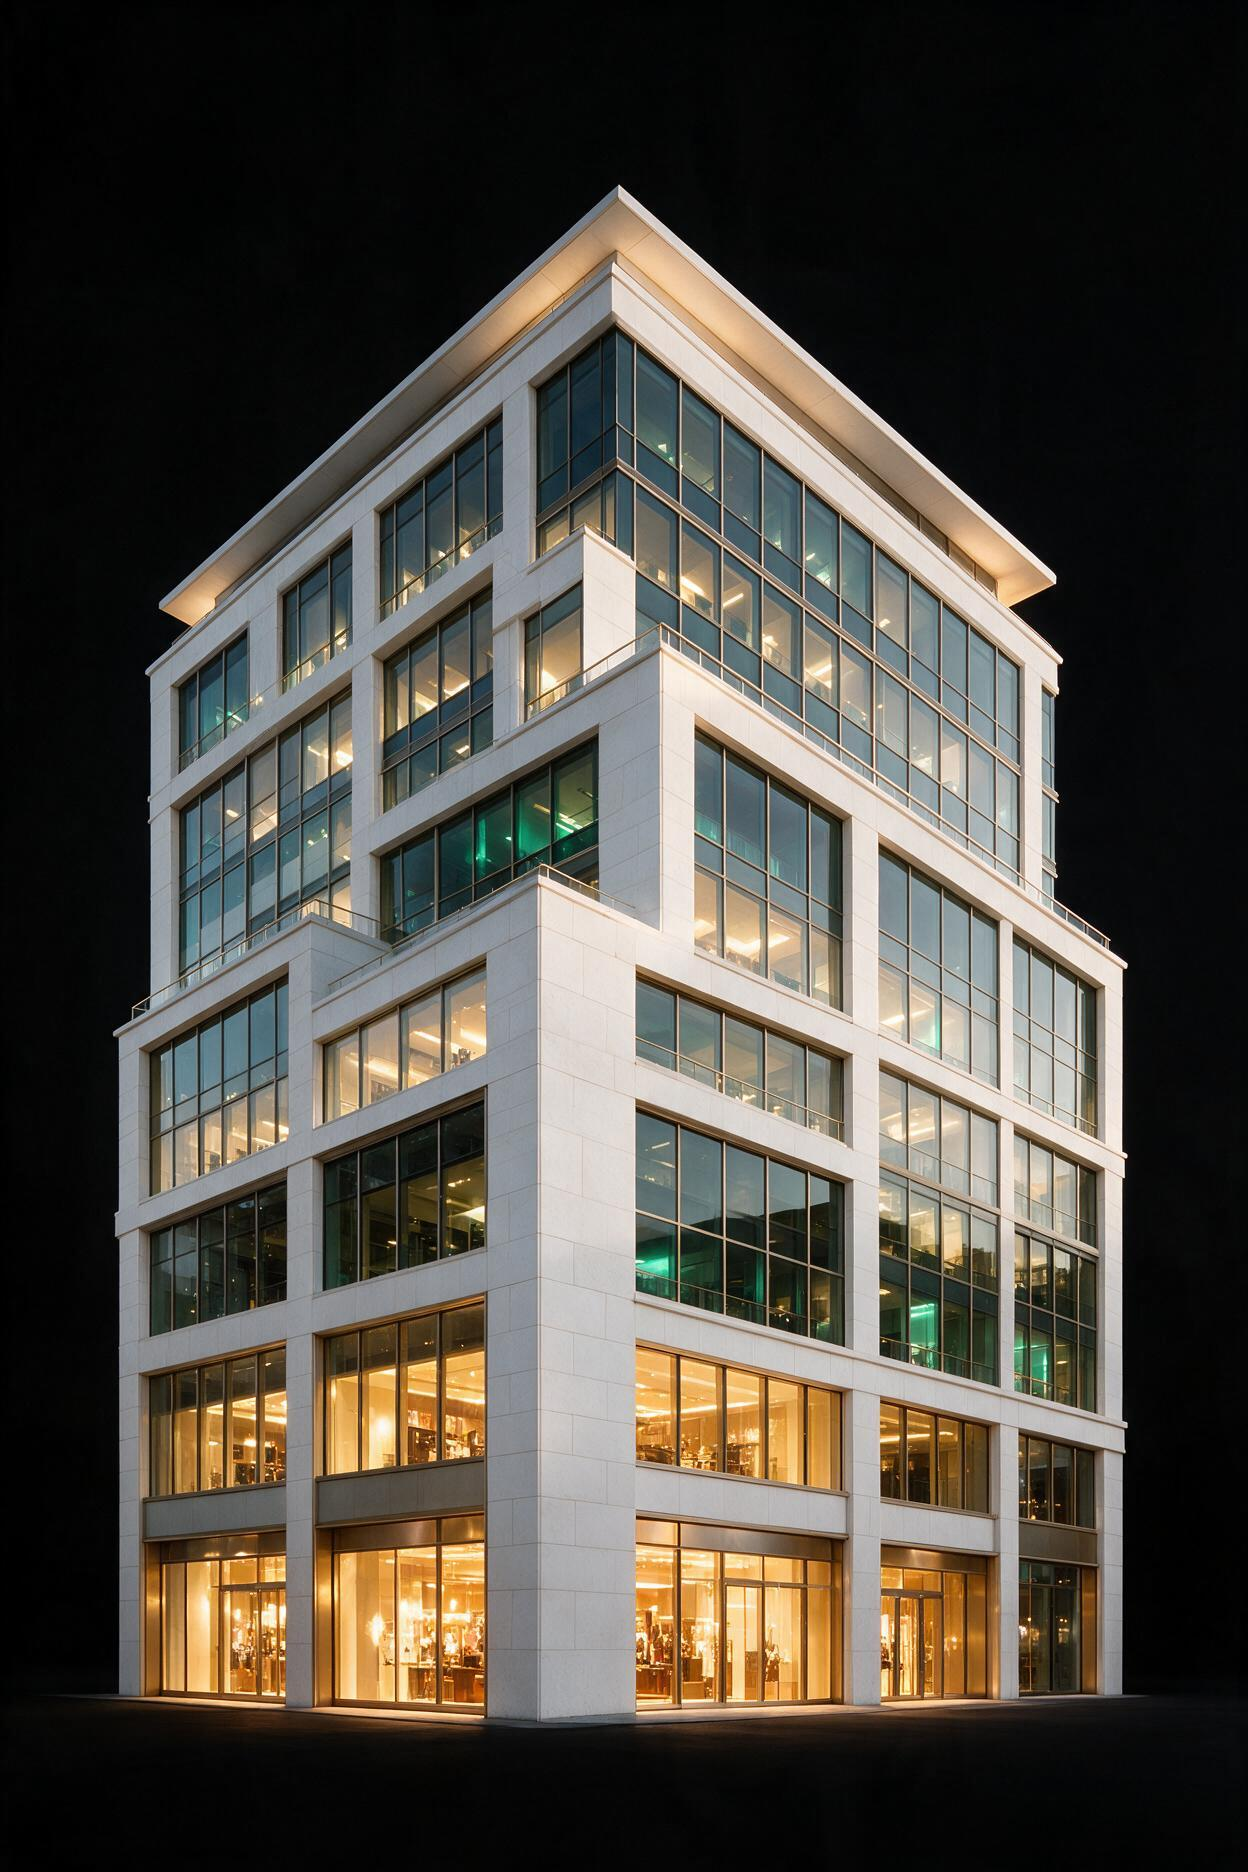
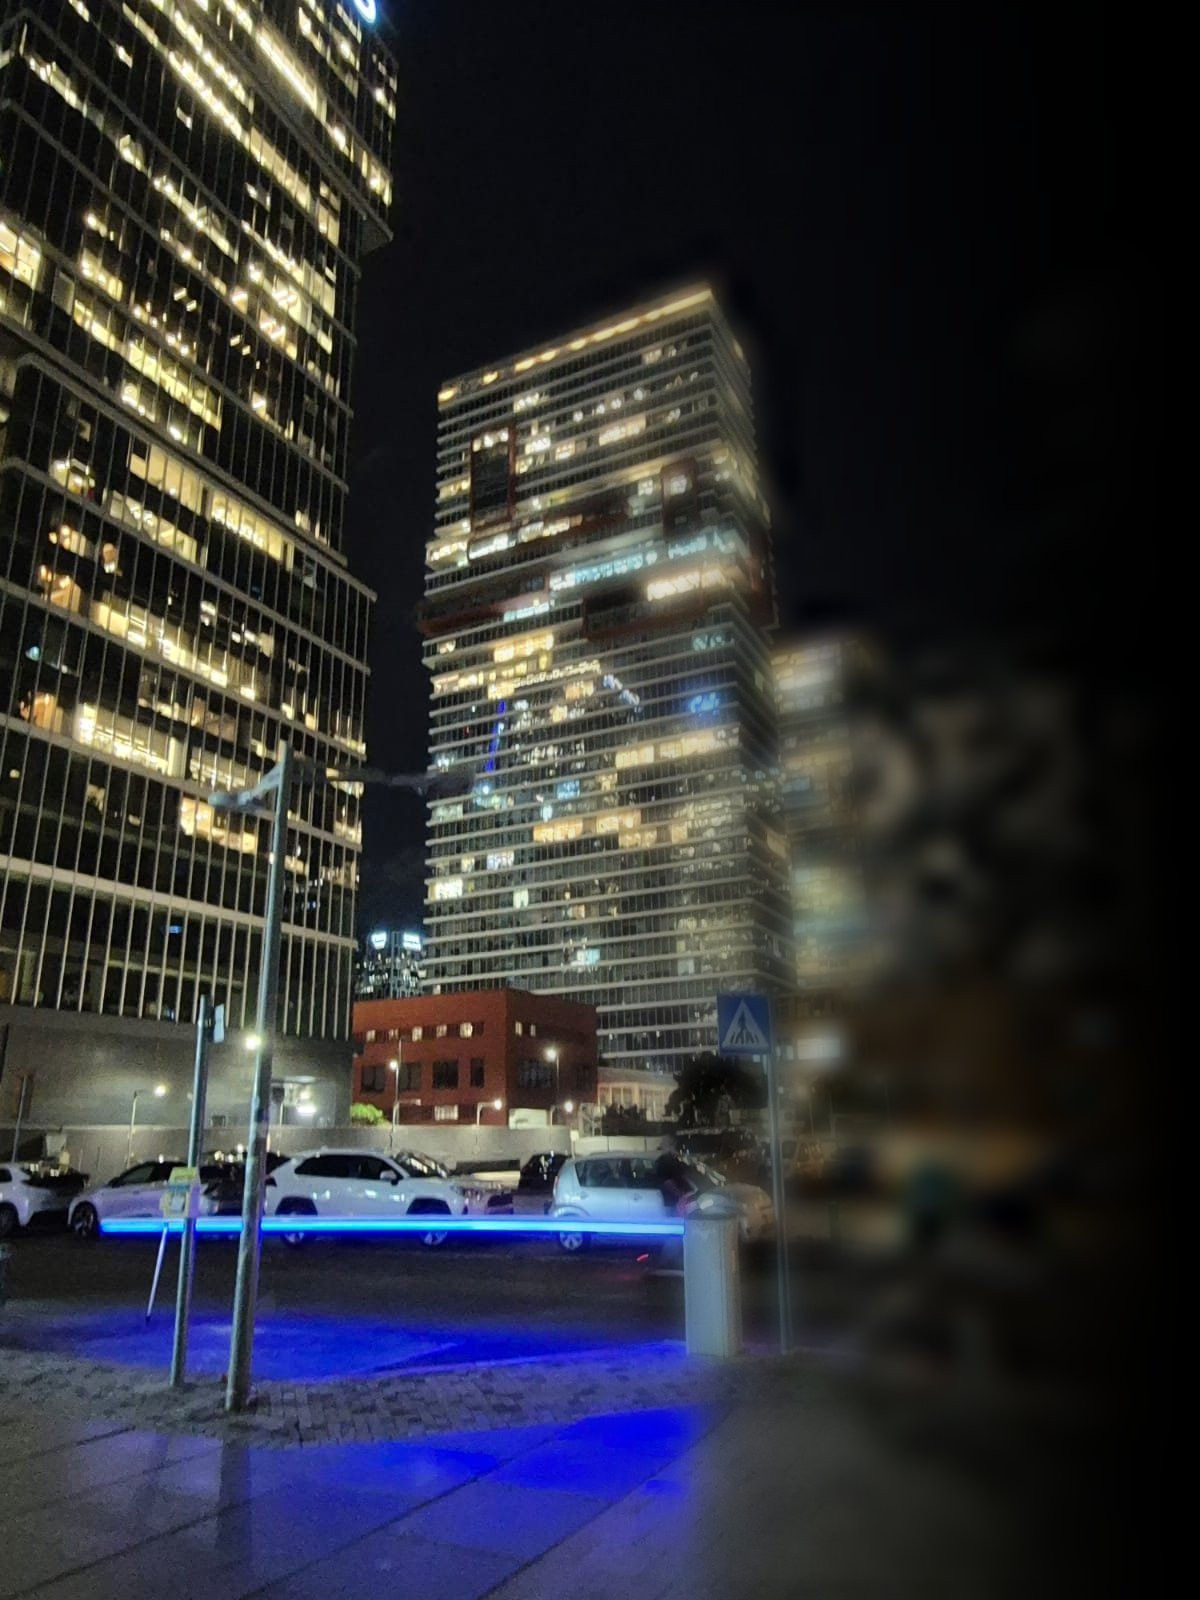
החלפת תמונת ה-Hero בתצלום אמיתי של דורון
תצלום לילי אמיתי שדורון צילם (hbg.jpeg) במקום התמונה שנוצרה ב-AI.
עובד: הפוך אופקית (מראה) לפי הבקשה, ואז מיזוג הדרגתי של הצד הימני
(בתמונה ההפוכה) לטשטוש ואז לשחור מלא, כך שהתמונה נמסה לתוך רקע
הענן השחור של האזור באופן חלק — במקום להסתמך רק על שכבת ה-gradient
הקיימת של Tailwind.

עודכן: hero.jpg (התמונה המעובדת), alt text בכל הקבצים (כבר לא
מתאר "בניין עם חנויות" אלא את התצלום האמיתי), ומידות ה-width/height
ב-Hero.tsx כדי לשקף את יחס הממדים האמיתי (1200x1600).

התמונה המקורית (ללא עיבוד) נשמרה ב-site/assets-original/ וגם
כ-hbg.jpeg בתיקיית הפרויקט.

diff --git a/site/preview/edit.html b/site/preview/edit.html
@@ -126,7 +126,7 @@ tailwind.config = {
   <svg data-spiro="31" viewBox="0 0 400 400" fill="none" class="pointer-events-none absolute right-[-25%] -top-[45%] h-[1400px] w-[1400px] text-brand/[0.07]"></svg>
 
   <div class="relative h-[380px] w-full sm:h-[460px] lg:absolute lg:inset-y-0 lg:left-0 lg:h-full lg:w-[49%]">
-    <img src="../lovable/public/images/hero.jpg" alt="בניין מסחרי מודרני עם חנויות בקומת הקרקע" class="h-full w-full object-cover object-center" />
+    <img src="../lovable/public/images/hero.jpg" alt="נוף לילי של מגדלי משרדים במרכז העסקים" class="h-full w-full object-cover object-center" />
     <div class="absolute inset-0 bg-gradient-to-r from-ink-13/40 via-transparent to-ink-13"></div>
     <div class="absolute inset-x-0 bottom-0 h-40 bg-gradient-to-t from-ink-13 to-transparent lg:hidden"></div>
 

diff --git a/site/preview/index.html b/site/preview/index.html
@@ -125,7 +125,7 @@ tailwind.config = {
   <svg data-spiro="31" viewBox="0 0 400 400" fill="none" class="pointer-events-none absolute right-[-25%] -top-[45%] h-[1400px] w-[1400px] text-brand/[0.07]"></svg>
 
   <div class="relative h-[380px] w-full sm:h-[460px] lg:absolute lg:inset-y-0 lg:left-0 lg:h-full lg:w-[49%]">
-    <img src="../lovable/public/images/hero.jpg" alt="בניין מסחרי מודרני עם חנויות בקומת הקרקע" class="h-full w-full object-cover object-center" />
+    <img src="../lovable/public/images/hero.jpg" alt="נוף לילי של מגדלי משרדים במרכז העסקים" class="h-full w-full object-cover object-center" />
     <div class="absolute inset-0 bg-gradient-to-r from-ink-13/40 via-transparent to-ink-13"></div>
     <div class="absolute inset-x-0 bottom-0 h-40 bg-gradient-to-t from-ink-13 to-transparent lg:hidden"></div>
 

diff --git a/site/lovable/src/components/site/Hero.tsx b/site/lovable/src/components/site/Hero.tsx
@@ -48,11 +48,11 @@ export function Hero() {
       <div className="relative h-[380px] w-full sm:h-[460px] lg:absolute lg:inset-y-0 lg:left-0 lg:h-full lg:w-[49%]">
         <img
           src="/images/hero.jpg"
-          alt="בניין מסחרי מודרני עם חנויות בקומת הקרקע"
+          alt="נוף לילי של מגדלי משרדים במרכז העסקים"
           className="h-full w-full object-cover object-center"
           loading="eager"
-          width={1024}
-          height={1536}
+          width={1200}
+          height={1600}
         />
         <div className="absolute inset-0 bg-gradient-to-r from-ink-13/40 via-transparent to-ink-13" />
         <div className="absolute inset-x-0 bottom-0 h-40 bg-gradient-to-t from-ink-13 to-transparent lg:hidden" />
